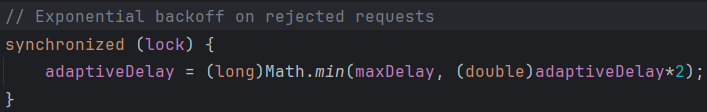
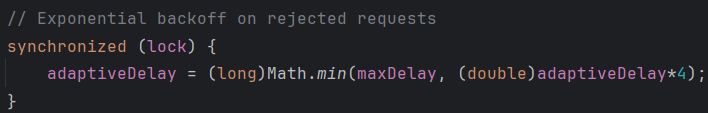
Final commit

diff --git a/src/main/webapp/index.html b/src/main/webapp/index.html
@@ -56,11 +56,11 @@
 				<span class="count">(2 items)</span>
 				<span class="arrow rotated">▼</span>
 			</h2>
-			<div class="category-section" data-category="https://cytronics.ca/en/a-propos/#history/">
-				<h3>https://cytronics.ca/en/a-propos/#history/</h3>
+			<div class="category-section" data-category="https://www.fandango.com/famous-actors-and-actresses/">
+				<h3>https://www.fandango.com/famous-actors-and-actresses/</h3>
 			</div>
-			<div class="category-section" data-category="https://cytronics.ca/en/vision/">
-				<h3>https://cytronics.ca/en/vision/</h3>
+			<div class="category-section" data-category="https://www.fandango.com/people/jennifer-lawrence-381667/">
+				<h3>https://www.fandango.com/people/jennifer-lawrence-381667/</h3>
 			</div>
 		</div>
 		<div class="level-section">
@@ -69,8 +69,8 @@
 				<span class="count">(1 item)</span>
 				<span class="arrow">▼</span>
 			</h2>
-			<div class="category-section" data-category="https://cytronics.ca/en/about/">
-				<h3>https://cytronics.ca/en/about/</h3>
+			<div class="category-section" data-category="https://www.fandango.com/people/george-clooney-125808/photos/">
+				<h3>https://www.fandango.com/people/george-clooney-125808/photos/</h3>
 			</div>
 		</div>
 		<div class="level-section">
@@ -79,8 +79,8 @@
 				<span class="count">(1 item)</span>
 				<span class="arrow">▼</span>
 			</h2>
-			<div class="category-section" data-category="https://cytronics.ca/en/contact/">
-				<h3>https://cytronics.ca/en/contact/</h3>
+			<div class="category-section" data-category="https://www.fandango.com/people/jared-leto-395142/biography/">
+				<h3>https://www.fandango.com/people/jared-leto-395142/biography/</h3>
 			</div>
 		</div>
 	</div>

diff --git a/src/main/webapp/index.js b/src/main/webapp/index.js
@@ -40,7 +40,7 @@ function checkRecursiveLevel() {
     const input = document.getElementById('go-deep-input');
     const warning = document.getElementById('level-warning');
     
-    if (input.value > 2) {
+    if (input.value > 1) {
         warning.style.display = 'block';
     } else {
         warning.style.display = 'none';
@@ -84,9 +84,7 @@ function apiCallBack(xhr, callback) {
  */
 function enableForm() {
     const form = document.getElementById('search-form');
-    const submitButton = form.querySelector('.search-button');
     form.style.display = 'block';
-    submitButton.disabled = false;
     document.getElementById('current-url-title').style.display = 'none';
     document.getElementById('grab-more-button').style.display = 'none';
     document.getElementById('loading-container').style.display = 'none';
@@ -245,9 +243,6 @@ function makeApiCall(url, method, obj, callback) {
         }
     };
     
-    const submitButton = document.querySelector('.search-button');
-    submitButton.disabled = true;
-    
     xhr.send(obj ? obj instanceof FormData || obj.constructor == String ? obj : JSON.stringify(obj) : null);
     
     window.responseMap = responseMap;
@@ -323,9 +318,6 @@ function displayImages(images) {
     document.getElementById('search-form').style.display = 'none';
     document.getElementById('loading-container').style.display = 'none';
     document.getElementById('grab-more-button').style.display = 'none';
-    
-    const submitButton = document.querySelector('.search-button');
-    submitButton.disabled = false;
     
     const grabMoreButton = document.getElementById('grab-more-button');
     const currentUrlTitle = document.getElementById('current-url-title');

diff --git a/src/main/java/com/eulerity/hackathon/imagefinder/service/ImageCrawlerService.java b/src/main/java/com/eulerity/hackathon/imagefinder/service/ImageCrawlerService.java
@@ -142,7 +142,7 @@ public class ImageCrawlerService {
                 log.error("Failed to process: {}\nStatus code: {}\nException: {}", url, e.getStatusCode(), e.getMessage());
                 // Exponential backoff on rejected requests
                 synchronized (lock) {
-                    adaptiveDelay = (long)Math.min(maxDelay, (double)adaptiveDelay*2);
+                    adaptiveDelay = (long)Math.min(maxDelay, (double)adaptiveDelay*4);
                 }
             } catch (Exception e) {
                 log.error("Failed to process: {}\nException: {}", url, e.getMessage());

diff --git a/src/main/java/com/eulerity/hackathon/imagefinder/object/LevelImagePair.java b/src/main/java/com/eulerity/hackathon/imagefinder/object/LevelImagePair.java
@@ -16,8 +16,6 @@ public class LevelImagePair {
         images = new LinkedHashSet<>();
     }
 
-
-
     public void add(Image image) {
         images.add(image);
     }
